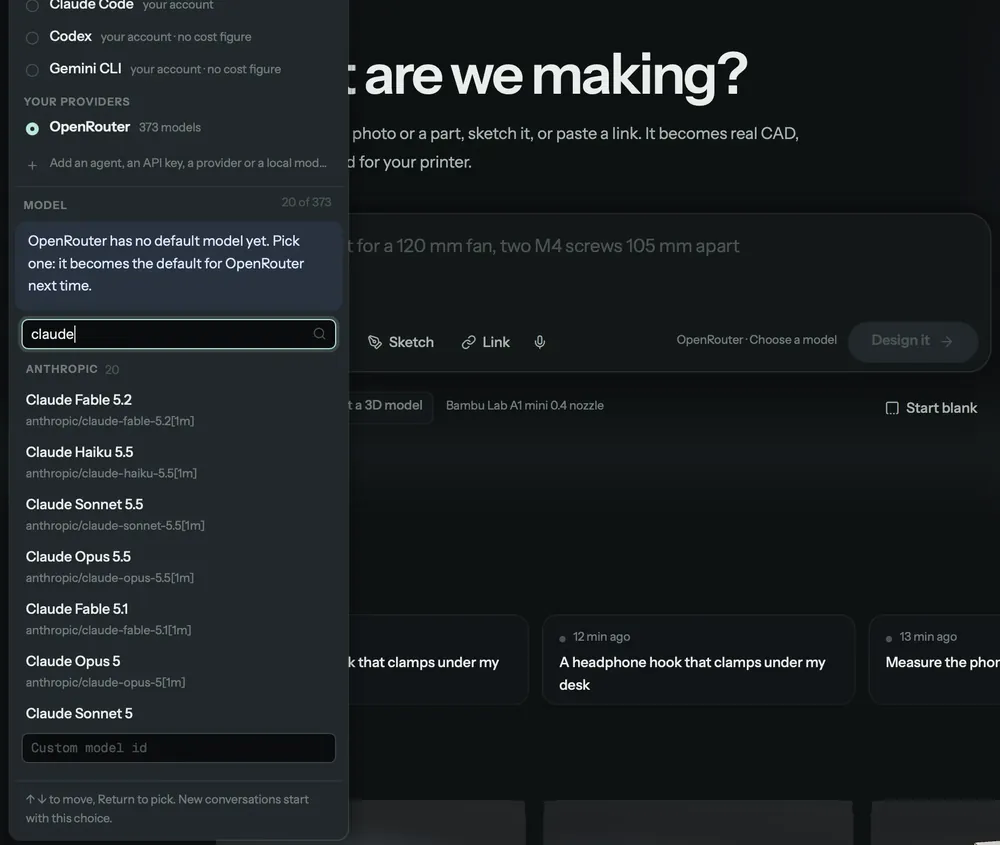
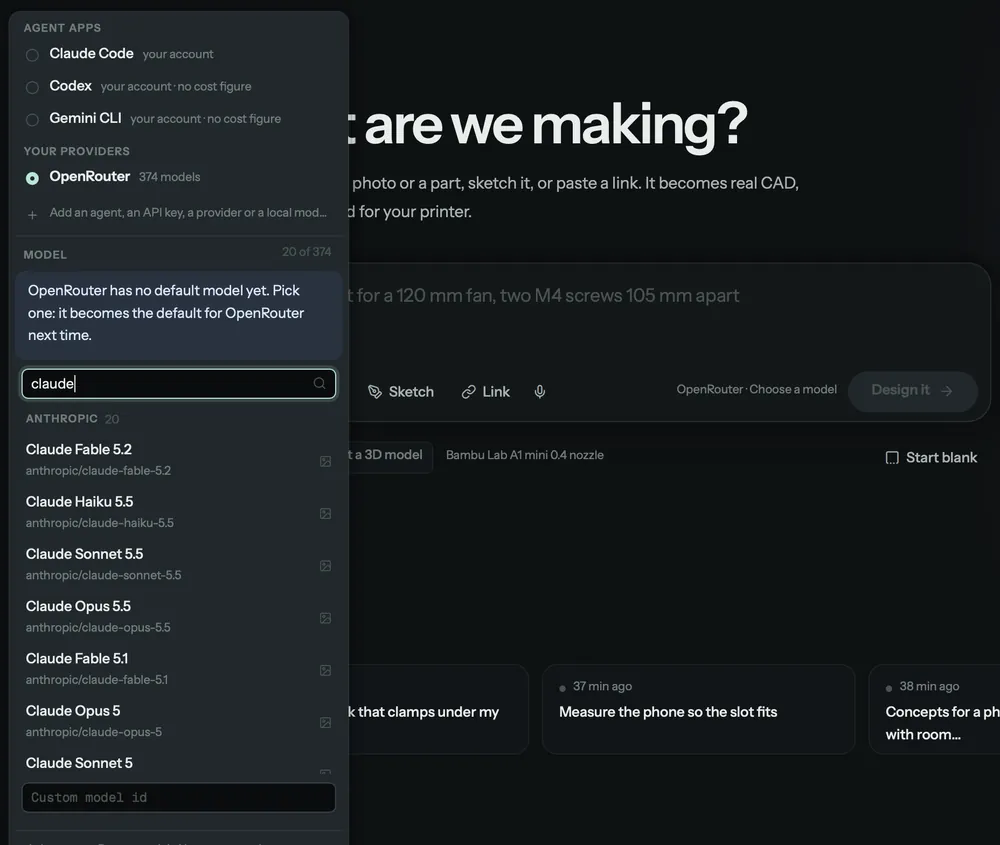
Provider screenshots retaken with OpenRouter detected as OpenAI-compatible; MCP descriptions of brief_presets, list_starters and recipe_library describe what they do now

diff --git a/site/index.html b/site/index.html
@@ -470,8 +470,8 @@
       </div>
     </div>
     <div class="duo rv">
-      <figure class="island"><img src="assets/shots/providers.webp" width="1200" height="907" loading="lazy" decoding="async" alt="Settings › Agents: model API keys, a provider added by its address with 373 models, and local model servers"><figcaption><b>Settings › Agents.</b> Agent apps, keys, local models and your providers in one place.</figcaption></figure>
-      <figure class="island"><img src="assets/shots/picker.webp" width="1000" height="845" loading="lazy" decoding="async" alt="The model menu searching a provider's 373 models for claude"><figcaption><b>A model menu for hundreds of models.</b> Search, vendor sections, Recent.</figcaption></figure>
+      <figure class="island"><img src="assets/shots/providers.webp" width="1200" height="907" loading="lazy" decoding="async" alt="Settings › Agents: model API keys, a provider added by its address with 374 models, and local model servers"><figcaption><b>Settings › Agents.</b> Agent apps, keys, local models and your providers in one place.</figcaption></figure>
+      <figure class="island"><img src="assets/shots/picker.webp" width="1000" height="845" loading="lazy" decoding="async" alt="The model menu searching a provider's 374 models for claude"><figcaption><b>A model menu for hundreds of models.</b> Search, vendor sections, Recent.</figcaption></figure>
     </div>
   </div>
 </section>

diff --git a/form/mcp_server.py b/form/mcp_server.py
@@ -658,9 +658,10 @@ def build() -> MCPServer:
 
     @mcp.tool(annotations=RO)
     async def brief_presets(preset: str = "") -> dict:
-        """Brief templates for common kinds of part (remote holder, desk accessory, organizer, bathroom mount, enclosure,
-        car accessory): the questions worth asking, environment defaults (temperature, humidity, UV, load), a material to
-        start from and the checks to plan for. Defaults are assumptions to confirm with the user, never measurements."""
+        """Intake guidance for common kinds of part (remote holder, desk accessory, organizer, bathroom mount, enclosure,
+        car accessory): the questions worth asking the person, environment defaults (temperature, humidity, UV, load), a
+        material to start from and the checks to plan for. Use it while gathering requirements; the defaults are
+        assumptions to confirm with the person, never measurements."""
         from . import presets as pr
         if not preset:
             return {"presets": [{k: p[k] for k in ("id", "title", "summary")} for p in pr.all_presets()]}
@@ -1227,9 +1228,10 @@ def build() -> MCPServer:
 
     @mcp.tool(annotations=RO)
     async def list_starters() -> dict:
-        """The starting points Home offers, ranked from what this person designs (their projects' recipes and briefs,
-        their printer and material, what they pinned or used): {prompts: [{id, text, source, pinned}], briefs: [...]}.
-        Use them to suggest what to design next; the person edits them in the app or with `form starters`."""
+        """Ideas for what this person might design next, ranked from what they already design (the building blocks
+        and kinds of part in their projects, their printer and material, what they pinned or used):
+        {prompts: [{id, text, source, pinned}], briefs: [...]}. Offer them as suggestions when the person asks what to
+        make; they edit the list with `form starters`."""
         from . import starters
         st = studio()
         return await _run(starters.for_studio, st)
@@ -1237,8 +1239,9 @@ def build() -> MCPServer:
     @mcp.tool(annotations=ToolAnnotations(read_only_hint=True, open_world_hint=True))
     async def recipe_library(q: str = "", section: str = "", tag: str = "") -> dict:
         """Search the recipe library: built-in recipes, recipes the person installed ("mine") and the community index
-        on the project website. section: builtin | mine | community. Installing code is the person's decision and
-        happens only in the app or with `form recipes install` after they review the source and its SHA-256."""
+        on the project website, to find a building block to start a design from. section: builtin | mine | community.
+        Installing code is the person's decision and happens only with `form recipes install`, after they review the
+        source and its SHA-256."""
         from . import recipe_lib
         st = studio()
         def go():

diff --git a/docs/MCP.md b/docs/MCP.md
@@ -95,7 +95,7 @@ Rules:
 | [`verify_release`](#verify_release) | read-only | Re-hash every file of a release against its manifest and say whether it still matches the head revision. |
 | [`open_in`](#open_in) | changes | Open a current output in the user's own software: what = step \| stl \| 3mf \| gcode \| folder. |
 | [`open_bench`](#open_bench) | changes | The bench is the local web page where the user inspects the 3D model, compares revisions and approves releases. |
-| [`brief_presets`](#brief_presets) | read-only | Brief templates for common kinds of part (remote holder, desk accessory, organizer, bathroom mount, enclosure, car accessory): the questions worth asking, environment defaults (temperature, humidity, UV, load), a material to start from and the checks to plan for. |
+| [`brief_presets`](#brief_presets) | read-only | Intake guidance for common kinds of part (remote holder, desk accessory, organizer, bathroom mount, enclosure, car accessory): the questions worth asking the person, environment defaults (temperature, humidity, UV, load), a material to start from and the checks to plan for. |
 | [`import_reference`](#import_reference) | changes | Import an existing part (STEP or STL, e.g. a Raspberry Pi 5 STEP from the manufacturer) into a project's references. |
 | [`freecad_macro`](#freecad_macro) | read-only | Write a FreeCAD macro (.FCMacro) next to the current STEP export. |
 | [`analyze`](#analyze) | read-only | An analysis map of the part, computed from the real geometry: a picture with its legend, and the statistics. |
@@ -125,8 +125,8 @@ Rules:
 | [`pick_concept`](#pick_concept) | changes | The person picked a concept (in words; in the app they pick on the board). |
 | [`list_concepts`](#list_concepts) | read-only | Open concept groups ({groups: [...]}, newest first), or one group's board with group=<id>. |
 | [`suggest_replies`](#suggest_replies) | read-only | Offer up to 3 short follow-up messages the person might send next (each under 80 characters, written as the person would say it, e.g. "Make the walls 2 mm"). |
-| [`list_starters`](#list_starters) | read-only | The starting points Home offers, ranked from what this person designs (their projects' recipes and briefs, their printer and material, what they pinned or used): {prompts: [{id, text, source, pinned}], briefs: [...]}. |
-| [`recipe_library`](#recipe_library) | read-only | Search the recipe library: built-in recipes, recipes the person installed ("mine") and the community index on the project website. |
+| [`list_starters`](#list_starters) | read-only | Ideas for what this person might design next, ranked from what they already design (the building blocks and kinds of part in their projects, their printer and material, what they pinned or used): {prompts: [{id, text, source, pinned}], briefs: [...]}. |
+| [`recipe_library`](#recipe_library) | read-only | Search the recipe library: built-in recipes, recipes the person installed ("mine") and the community index on the project website, to find a building block to start a design from. |
 | [`export_recipe`](#export_recipe) | changes | Write an installed ("mine") recipe as one .formrecipe file: its code, meta.json (parameters, author, tags, the code's SHA-256) and preview.png drawn from a real build at its defaults. |
 | [`prepare_recipe_submission`](#prepare_recipe_submission) | changes | Prepare an installed recipe for the community gallery: the community/recipes/<id>/ folder (written into `folder` when given), what the gallery's checks would refuse, and the link to GitHub's recipe issue form with the fields filled in. |
 | [`design_as_recipe`](#design_as_recipe) | changes | Turn a design's current code into a recipe whose defaults are the design's values; ranges narrow a parameter's range ({key: [min, max]}, never wider than the code's own). |
@@ -511,9 +511,10 @@ The bench is the local web page where the user inspects the 3D model, compares r
 
 *Read-only.*
 
-Brief templates for common kinds of part (remote holder, desk accessory, organizer, bathroom mount, enclosure,
-car accessory): the questions worth asking, environment defaults (temperature, humidity, UV, load), a material to
-start from and the checks to plan for. Defaults are assumptions to confirm with the user, never measurements.
+Intake guidance for common kinds of part (remote holder, desk accessory, organizer, bathroom mount, enclosure,
+car accessory): the questions worth asking the person, environment defaults (temperature, humidity, UV, load), a
+material to start from and the checks to plan for. Use it while gathering requirements; the defaults are
+assumptions to confirm with the person, never measurements.
 
 | Argument | Type | Required |
 |---|---|---|
@@ -953,17 +954,19 @@ your reply. Call it at most once, at the end of a reply, and only with useful ne
 
 *Read-only.*
 
-The starting points Home offers, ranked from what this person designs (their projects' recipes and briefs,
-their printer and material, what they pinned or used): {prompts: [{id, text, source, pinned}], briefs: [...]}.
-Use them to suggest what to design next; the person edits them in the app or with `form starters`.
+Ideas for what this person might design next, ranked from what they already design (the building blocks
+and kinds of part in their projects, their printer and material, what they pinned or used):
+{prompts: [{id, text, source, pinned}], briefs: [...]}. Offer them as suggestions when the person asks what to
+make; they edit the list with `form starters`.
 
 ### `recipe_library`
 
 *Read-only.*
 
 Search the recipe library: built-in recipes, recipes the person installed ("mine") and the community index
-on the project website. section: builtin | mine | community. Installing code is the person's decision and
-happens only in the app or with `form recipes install` after they review the source and its SHA-256.
+on the project website, to find a building block to start a design from. section: builtin | mine | community.
+Installing code is the person's decision and happens only with `form recipes install`, after they review the
+source and its SHA-256.
 
 | Argument | Type | Required |
 |---|---|---|

diff --git a/docs/FEATURES.md b/docs/FEATURES.md
@@ -113,8 +113,8 @@ each one named as it arrives.
 - **Local models:** Ollama, LM Studio and llama.cpp, found from their running servers.
 - **Add any provider by its address.** Settings › Agents › Add a provider… (or `form providers add URL`) takes a base
   URL and an optional key, finds the format (OpenAI-, Anthropic- or Gemini-compatible, with or without `/v1`, or
-  Ollama), reads the models and which of them call tools, and shows "Connected: OpenAI-compatible, 37 models, tools
-  supported" before you save. The key is kept in Form Studio's private secrets file and never shown again. Saved
+  Ollama), reads the models and which of them call tools, and shows what it found, for example "Connected:
+  OpenAI-compatible, 374 models, tools supported by 323 of 374", before you save. The key is kept in Form Studio's private secrets file and never shown again. Saved
   providers can be edited, tested on one model or removed.
 - **A model menu for hundreds of models.** Search, vendor sections, ↑ ↓ and Return, free models marked, the models you
   used pinned under Recent. Batch-only variants and models without tool calls are left out.

diff --git a/README.md b/README.md
@@ -186,8 +186,8 @@ still checked, and the release holds the formats you need.
 
 <table>
 <tr>
-<td width="50%"><img src="docs/images/settings-agents.webp" alt="Settings › Agents: model API keys, a provider added by its address with 373 models, and local model servers"></td>
-<td width="50%"><img src="docs/images/model-picker.webp" alt="The model menu: agent apps, a provider with 373 models, and a search for claude narrowing the list to 20"></td>
+<td width="50%"><img src="docs/images/settings-agents.webp" alt="Settings › Agents: model API keys, a provider added by its address with 374 models, and local model servers"></td>
+<td width="50%"><img src="docs/images/model-picker.webp" alt="The model menu: agent apps, a provider with 374 models, and a search for claude narrowing the list to 20"></td>
 </tr>
 </table>
 
